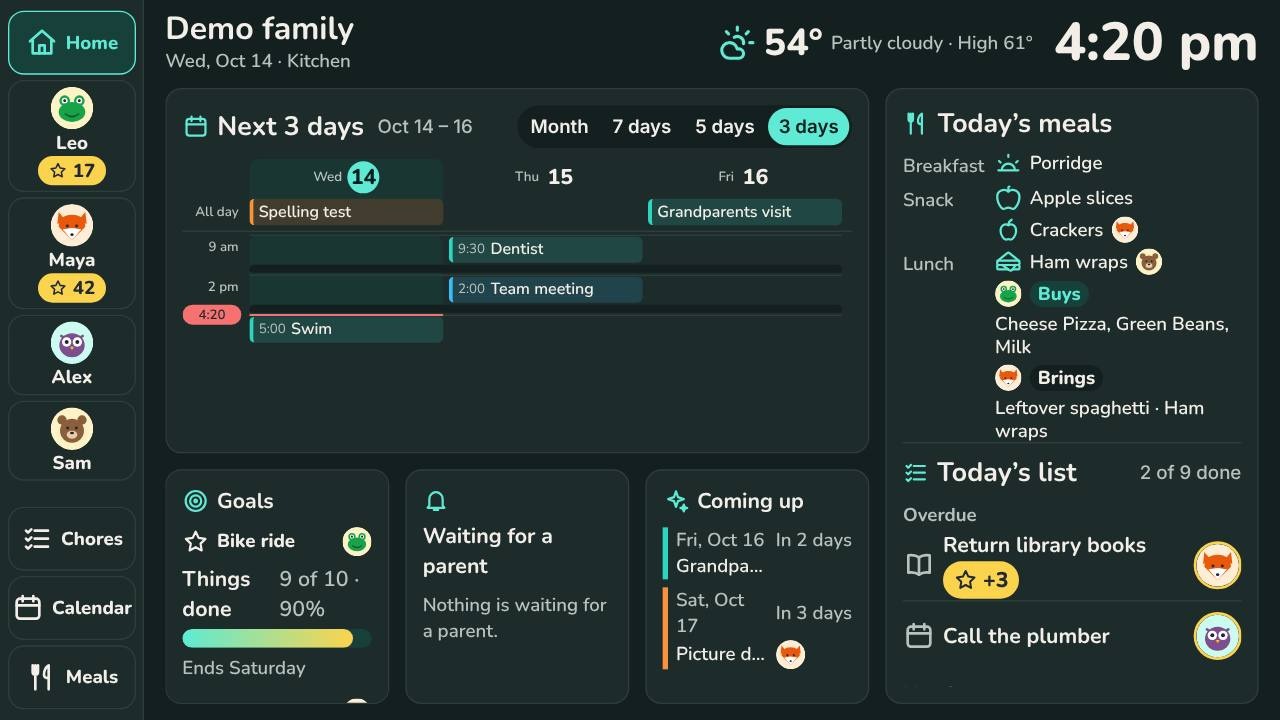
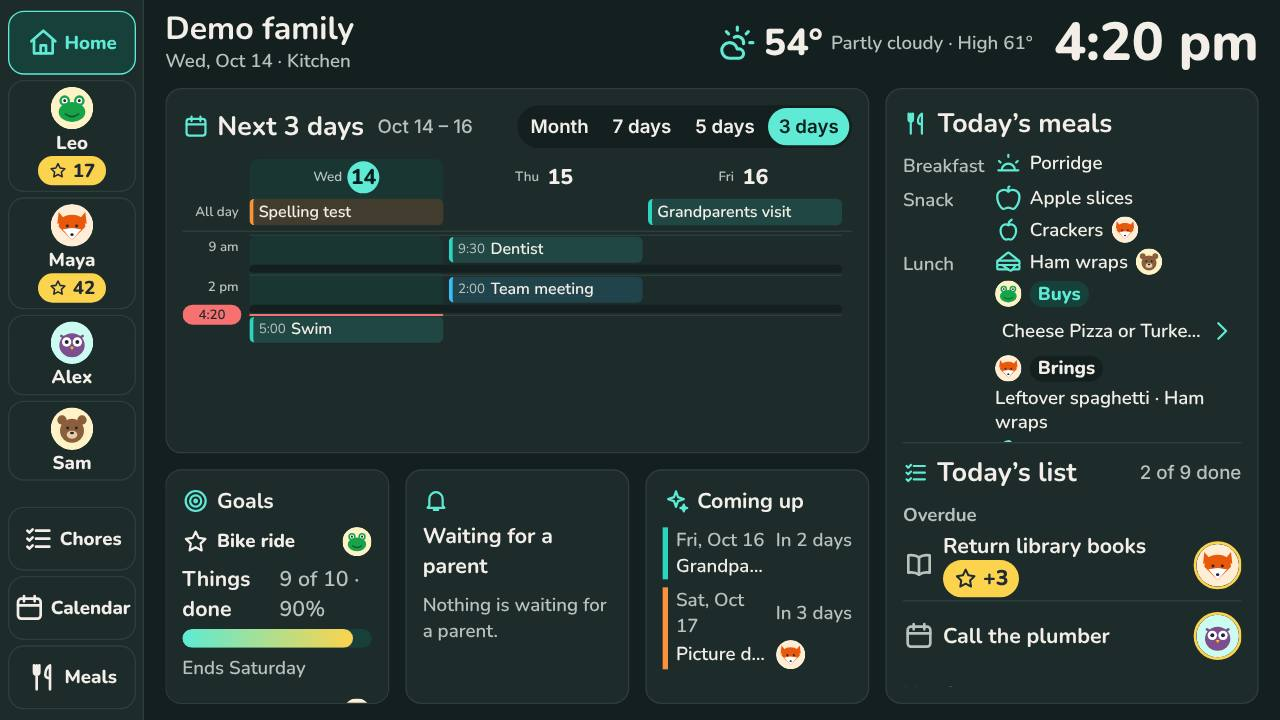
WP-71: The board home on an iPad: badges over chores, the rail clipped (D-100) (#82)
A chore's row grows with its title and points chip (still 104 px), and the rail's Home, Chores, Calendar and Meals keep icon and word inside their buttons (the word under the icon when it doesn't fit). The UI suite's board-fit checks the home screen at 1180x820 and 820x1180 at every text size and the kitchen board's 1920x1080 at Larger and Largest, in Day and Evening (added at the owner's request); all fail on main. WP-78's dialog test no longer races its own reload check.

Merged at the owner's call on d2e307e's green e2e (same app code); e9ebfc4's e2e went red during a test-database slowdown, 10:45-10:53 UTC (PR comment).

Claude-Session: https://claude.ai/code/session_015tRQ5QY7Y7KQWT2gdkLwCb

diff --git a/e2e/ui/board-fit.spec.ts b/e2e/ui/board-fit.spec.ts
@@ -159,3 +159,95 @@ test.describe('a swipe on a 4K panel at device scale 1', () => {
     await expect(title).not.toHaveText(first!);
   });
 });
+
+// [BRD-08][NFR-16] The home screen on an iPad and on a 1080p board at large text (WP-71): in its
+// stacked layout on the owner's iPad, chores' points chips sat over the next chore's title and the
+// rail cut "Calendar" and its icon. Rows were a fixed 104 px with 4 px to spare, and the rail's
+// "Calendar" was 7 px wider than its button; a browser that drew either a little larger spilled
+// or clipped it. Measured in the board's own px, in Day and Evening, at each text size.
+const HOME_SHAPES: readonly (readonly [number, number, string, readonly string[]])[] = [
+  [1180, 820, 'an iPad in landscape', TEXT_SIZES.map((t) => t.value)],
+  [820, 1180, 'an iPad in portrait', TEXT_SIZES.map((t) => t.value)],
+  // Added at the owner's request: the kitchen board (24", 1920×1080) at Larger and Largest, stacked.
+  [1920, 1080, 'a 1080p board, stacked', ['larger', 'largest']],
+];
+
+for (const [width, height, screen, sizes] of HOME_SHAPES) {
+  test.describe(`the home screen on ${screen}`, () => {
+    test.use({ viewport: { width, height } });
+    for (const size of sizes)
+      for (const theme of ['day', 'evening'] as const) {
+        test(`[BRD-08][BRD-09][NFR-16] ${width}×${height} at ${size}, ${theme}: nothing over the next chore, nothing cut in the rail, no sideways scroll`, async ({
+          page,
+        }) => {
+          await page.goto(`/dev/board?text=${size}&theme=${theme}`);
+          await expect(page.locator('html')).toHaveAttribute('data-text-size', size);
+          await expect(page.locator('.fw-dash__row').first()).toBeVisible();
+          await page.evaluate(() => document.fonts.ready);
+          const m = await page.evaluate(() => {
+            const z = Number(
+              getComputedStyle(document.documentElement).getPropertyValue('--fw-zoom'),
+            );
+            const box = (e: Element) => e.getBoundingClientRect();
+            const px = (n: number) => Math.round((n / z) * 10) / 10;
+            // Each chore's chip: how far above its row's bottom edge, and above the next title.
+            const rows = [...document.querySelectorAll('.fw-dash__row')].flatMap((row) => {
+              const chip = row.querySelector('.fw-points');
+              if (!chip) return [];
+              const next = row.nextElementSibling?.querySelector('.fw-dash__title');
+              return [
+                {
+                  title: row.querySelector('.fw-dash__title')!.textContent!,
+                  toRowEnd: px(box(row).bottom - box(chip).bottom),
+                  toNextTitle: next ? px(box(next).top - box(chip).bottom) : null,
+                },
+              ];
+            });
+            // Each rail entry: its icon and words inside the button's padding, and the button
+            // inside the rail (which clips both sides).
+            const rail = box(document.querySelector('.fw-today__people')!);
+            const entries = [...document.querySelectorAll('.fw-today__people button')].map((b) => {
+              const cs = getComputedStyle(b);
+              const inset =
+                (Number.parseFloat(cs.paddingLeft) + Number.parseFloat(cs.borderLeftWidth)) * z;
+              const outer = box(b);
+              const kids = [...b.children]
+                .filter((k) => !k.classList.contains('fw-visually-hidden'))
+                .map(box);
+              return {
+                name: b.textContent!.trim(),
+                left: px(Math.min(...kids.map((k) => k.left)) - (outer.left + inset)),
+                right: px(outer.right - inset - Math.max(...kids.map((k) => k.right))),
+                inRail: outer.left >= rail.left - 0.5 && outer.right <= rail.right + 0.5,
+              };
+            });
+            const screenBox = box(document.querySelector('.fw-today__screen')!);
+            return {
+              rows,
+              entries,
+              railBesideScreen: rail.right <= screenBox.left + 0.5,
+              scrollWidth: document.documentElement.scrollWidth,
+            };
+          });
+          expect(m.scrollWidth, 'no sideways scroll').toBe(width);
+          expect(m.railBesideScreen, 'the rail beside the screen, not over it').toBe(true);
+          expect(m.rows.length).toBeGreaterThan(0);
+          for (const r of m.rows) {
+            // The row's own room below the chip (4 px), so it never reaches the next row.
+            expect
+              .soft(r.toRowEnd, `${r.title}: chip to its row's edge`)
+              .toBeGreaterThanOrEqual(3.5);
+            if (r.toNextTitle !== null)
+              expect
+                .soft(r.toNextTitle, `${r.title}: chip to the next title`)
+                .toBeGreaterThanOrEqual(8);
+          }
+          for (const e of m.entries) {
+            expect.soft(e.left, `${e.name}: room left of its icon`).toBeGreaterThanOrEqual(-0.5);
+            expect.soft(e.right, `${e.name}: room right of its words`).toBeGreaterThanOrEqual(-0.5);
+            expect.soft(e.inRail, `${e.name}: inside the rail`).toBe(true);
+          }
+        });
+      }
+  });
+}

diff --git a/packages/ui/src/ui.css b/packages/ui/src/ui.css
@@ -1430,10 +1430,16 @@ html:has(.board) {
   text-align: center;
   cursor: pointer;
 }
-/* Home, Chores and the Calendar: the icon beside the word, so the people get the height. */
+/* Home, Chores and the Calendar: the icon beside the word, so the people get the height. A word
+   that doesn't fit beside its icon goes under it, never past the button's edge (WP-71). */
 .fw-today__person--all {
   flex-direction: row;
-  gap: var(--s-3);
+  flex-wrap: wrap;
+  gap: var(--s-1) var(--s-2);
+  padding-inline: var(--s-1);
+}
+.fw-today__person--all > span {
+  max-width: 100%;
 }
 .fw-today__people svg {
   width: 48px;
@@ -4141,11 +4147,15 @@ span.fw-heat__cell {
   padding: 0;
   list-style: none;
 }
+/* [BRD-08] A row grows with what is in it (WP-71): its title and points chip (96 px) and a little room
+   above and below make 104 px, as before, and a chip a browser draws taller makes the row taller
+   instead of reaching the next row's title. */
 .fw-dash__row {
   display: flex;
   align-items: center;
   gap: var(--s-3);
-  height: 104px;
+  min-height: 96px;
+  padding-block: var(--s-1);
   border-top: var(--border-w) solid var(--line);
 }
 .fw-dash__row:first-child {
@@ -4159,7 +4169,6 @@ span.fw-heat__cell {
   display: grid;
   flex: 1;
   justify-items: start;
-  gap: var(--s-1);
   min-width: 0;
 }
 .fw-dash__title {

diff --git a/e2e/ui/board-update.spec.ts b/e2e/ui/board-update.spec.ts
@@ -34,8 +34,12 @@ test('[DEV-05] WP-78: an idle board reloads once a new version is deployed', asy
 
 test('[DEV-05] WP-78: never with a dialog open, however long it is left', async ({ page }) => {
   await open(page, 'b'.repeat(40));
-  // A new version is seen at 5 minutes; Leo then opens a day's choices.
-  await page.clock.runFor(5 * 60_000 + 1_000);
+  // A new version is seen at 5 minutes; Leo then opens a day's choices. Leo is at the board from
+  // 4 minutes, so it isn't idle when the version is seen: idle since the start, it would reload at
+  // 5:00 whenever /api/health answers before that minute's own reload check (WP-71: CI saw it).
+  await page.clock.runFor(4 * 60_000);
+  await page.keyboard.press('Shift');
+  await page.clock.runFor(60_000 + 1_000);
   expect(await marked(page)).toBe(true);
   await page.getByRole('button', { name: 'Open Pick next week’s lunches for Leo' }).click();
   await page.getByRole('button', { name: 'Next week' }).click();

diff --git a/docs/06-brand-and-style-guide.md b/docs/06-brand-and-style-guide.md
@@ -1,6 +1,7 @@
 # 06 — FamilyWise Brand and Style Guide
 
 > Version 1.18 · Status: built (WP-37, WP-06, WP-11, WP-13, WP-17, WP-19, WP-30, WP-40, WP-20, WP-22, WP-23, WP-35, WP-45, WP-46, WP-47, WP-48, WP-28, WP-51, WP-52)
+> v1.22: a chore's row grows with its title and points chip; the rail's word goes under its icon when it doesn't fit beside it (§7.2, WP-71, D-100).
 > v1.21: the board's calendar as a time grid: all-day lanes, the hours, now, an event's details, and the calendar's own text sizes (§3, §7.2, WP-52, D-82).
 > v1.20: the admin app's one menu and Settings (§7.3, WP-51, D-81).
 > v1.19: meals on the board: today's meals above Today's list, the Meals screen's week, Meals in the rail (§7.2, WP-28, D-80).
@@ -232,7 +233,7 @@ Admin views use plain words for the same statuses: Open, Done, Needs review, App
 - **Goal celebration (WP-20):** full screen over a dimmed board: the goal's photo or icon at 160 px in Sun, "Leo reached Bike ride!" at title size, "Well done! A grown-up will sort out the reward.", and a primary "Yay!" (`sparkles`, 96 px tall) that has the focus. Sun and Teal sparks fly out from the middle and the card pops (transform and opacity only, 1.6 s); with reduced motion there are no sparks and no pop. It closes on "Yay!" or after 10 seconds, and comes once per achievement.
 - **Calendar (WP-23):** "Calendar" with `calendar` (64 px) after the people. A pill of three views, each icon and word (`view-day` Day, `view-week` Week, `view-month` Month, 96 px tall, the chosen one in Teal tint); round 96 px arrows (`chevron-left`, `chevron-right`) around the title at title size ("Tuesday, October 20", "Oct 18 – 24", "October 2026"), and "Today" (dashed while showing today). Each event on a surface card with a 10 px bar in its calendar's color (14 px in Day), the time in soft text at 28 px ("5:00 pm", "All day", "Until 1:00 am") then the title, and the avatar of whose calendar it is. Week: seven columns, today's in Teal tint with a Teal border. Month: whole weeks; each day a button with its number, three titles with a color bar, then "+N more" in soft text; days of other months dashed. A calendar behind: a Sun-tint pill with `hourglass`, "School hasn’t updated since Sat, Oct 10 at 12:34 pm. Showing its last good events." Offline beyond the board's dates: `wifi-off`, "Showing what this board has for these dates." A person's side column lists today's events under "Today".
 - **Family dashboard (WP-35, D-66):** the home screen. The bar (household, date, clock, health lines) and the top bar (Home with `home`; each person's avatar, name and points chip; Chores with `list-check`; Calendar) stay pinned while the rest scrolls. Below, panels on Surface with a line border and 24 px radius, each headed at heading size with a Teal icon and a soft note on the right. **Calendar** (left, everything but 680 px): 3, 5 or 7 day columns, today Teal-tinted, each day's head a 56 px button ("Tue 13", "Today"), events as in the Week view (at 7 days, titles at small size with tighter padding, about 140 px a day; a word longer than its day breaks inside its event, never past it); or the **month**: a 7-column grid of 104 px day buttons, the date at body size, a row of 18 px dots in each calendar's color (four at most), today Teal-outlined, days outside the month soft. **Today's list** (right, 680 px): parts of the day as in §7.1's columns; a row per item 104 px tall: its icon (48), the title on one line (Nunito 700, body size, cut with an ellipsis), the points chip under it, then a face per person: their 56 px avatar in a 72 px button with a 4 px ring (Sun: past its time or overdue; Teal with a `check` badge: done; dashed Sun with `hourglass`: waiting for a parent; dashed line: done by someone else, or skipped); "Anyone" is a dashed `family` circle. A row whose items are all done reads its title soft and struck through. **Cards** under the calendar, two to a row: Goals (each goal compact, with whose it is), Waiting for a parent (faces, what, a points chip), Coming up (a 8 px stripe in the calendar's color, the date, the title, whose, "In 4 days"). **Tiles are one height** in any list (168 px on a person's screen, 212 px in Chores; the title two lines at most). **More info** is a 56 px round button with `info` on a row or tile; it opens a dialog with the icon and title, the description at body size, When, Points and Who (each face and how it stands), and Close.
-- **One screen, with a rail (WP-48, D-74):** the rail is 216 px of Surface down the left with a line on its right: Home (`home`), each person (their 56 px avatar, name at small size, points chip under it), and at its foot Chores and Calendar (icon beside the word); each a 96 px button with a 24 px radius, the one showing Teal-tinted. The bar is one row: the household (Nunito 800, 48 px) over the date and the board's name in Text-soft, then the weather, the clock (80 px) and Live. The home screen fills the rest: the calendar and today's list (560 px) full height, the cards in one row under the calendar, 300 px tall; anything longer scrolls inside its card. The calendar card's view switch is a pill of four 56 px buttons (Month, 7 days, 5 days, 3 days) at small size, the one showing filled Teal. A goal, a request or an event on a card is one button over the whole row (a focus ring on its edge). Text stays at 28 px or more.
+- **One screen, with a rail (WP-48, D-74):** the rail is 216 px of Surface down the left with a line on its right: Home (`home`), each person (their 56 px avatar, name at small size, points chip under it), and at its foot Chores and Calendar (icon beside the word, 8 px apart, inside 4 px at the sides; the word under the icon when it doesn't fit beside it, never cut); each a 96 px button with a 24 px radius, the one showing Teal-tinted. The bar is one row: the household (Nunito 800, 48 px) over the date and the board's name in Text-soft, then the weather, the clock (80 px) and Live. The home screen fills the rest: the calendar and today's list (560 px) full height, the cards in one row under the calendar, 300 px tall; anything longer scrolls inside its card. The calendar card's view switch is a pill of four 56 px buttons (Month, 7 days, 5 days, 3 days) at small size, the one showing filled Teal. A goal, a request or an event on a card is one button over the whole row (a focus ring on its edge). Text stays at 28 px or more.
 - **The calendar as a time grid (WP-52, D-82):** all-day events in lanes across the top of the days, under a 2 px line: each a 40 px bar with a 6 px edge in its calendar's color over a 16% tint of it on Surface, the title at 24 px Inter 600 on one line, cut with "…"; an event over several days one bar across them. A day's head is its weekday (20 px, Text-soft) and date (Nunito 800, body size), today's date white in a 48 px Teal circle; "+2" in a Background pill when lanes run out. "All day" and the hours ("9 am", "2 pm") in Text-soft at 20 px, right-aligned beside the days. Timed events as the bars, at least 30 px tall: on the home screen in rows an hour each (42 px at least), the start before the title at 20 px Text-soft ("9:30 Dentist"), a skipped stretch a 12 px Background band; on Week and Day in columns with a line each hour, the title then its time ("9:30 – 10:15") when there's room, two at once side by side with a 2 px Surface gap. Today's column a 55% Teal-tint wash. Now: a 3 px line in `--member-7-line` across today with a 15 px dot at its start, and its time ("4:20") white in a pill of the same color in place of the nearest hour. Earlier today's events: Background with their edge half-tinted, the title in Text-soft. An event's details: the sheet of §7.2's "More info", its title beside a 20 × 56 px swatch of its color, then **When**, **Where**, **Calendar**, **Whose** (an avatar, or `family` and "Everyone") each with its icon (`clock`, `map-pin`, `calendar`, `person`) at body size, and **Close**.
 - **Weather (WP-45, D-69):** beside the clock in the bar: the sky's icon in Teal at 64 px (`sun` by day or `moon` at night when clear; `cloud-sun` or `cloud-moon` when partly cloudy; `cloudy`, `cloud-fog`, `cloud-drizzle`, `rain` for rain and showers, `cloud-snow`, and `cloud-lightning` for storms, the Lucide ones since WP-46), the temperature now in whole degrees at title size (Nunito 800), and three lines in Text-soft at small size: the sky's word ("Partly cloudy", "Snow"), "High 61°", and the licence's credit "Weather by Open-Meteo.com". The three lines (line-height 1.1) are no taller than the clock, so the bar is the same with weather or without (since WP-48 one line, "Partly cloudy · High 61°", at 56 px for the icon; the credit is in Help and on Home); with no reading nothing shows in its place. On Home, **Weather on the boards** has the place search (a search field and **Find**, then **Use this** on each match), the last read in a muted line or a notice when it failed, °F or °C as a picker, and the credit link.
 - **Meals (WP-28, D-80):** **Today's meals** heads Today's list's column with `utensils` at heading size, a line under it: a row a meal of the day, its name in soft small text, then each thing planned with its icon in Teal (the library meal's, else `breakfast`, `snack`, `lunch` or `dinner`) and a face when it is one person's; dinner in Nunito 800 at body size in Teal text. A child's lunch: their face, a pill (**Buys** in Teal tint, **Brings** on the page's ground) and the menu or what they bring; **No menu yet** in soft text. **Meals** in the rail (`utensils`) opens **Meals this week**: a table of 7 day columns after a 150 px column of meal names, each cell a Background tile with a line, today's head in Teal with "Today" and today's cells in Teal tint with a 2 px Teal border; an empty cell "–", a day without school lunch its reason in soft text. All text 28 px or more.

diff --git a/docs/05-backlog.md b/docs/05-backlog.md
@@ -1,6 +1,7 @@
 # 05 — Backlog
 
 > Version 0.8 · Status: build baseline · Maintained by Claude Code
+> v0.8.114: WP-71 done (D-100): the board home on an iPad, fixed at the cause: a chore's row grows with its title and points chip, and a word in the rail goes under its icon when it doesn't fit beside it. The board's fit checks gain the iPad shapes, and, added at the owner's request, the kitchen board's 1920×1080 at Larger and Largest.
 > v0.8.113: WP-78 (a lunch pick taken off by another, a bug) added at the owner's request and done in the same change: on Meals in the admin app, every "Choice of" section's radios were one group, so ticking a milk took off the entree. Two more added to it at the owner's request and done with it: "and" in a school menu joins a side like "with" (a WP-64 gap); the board picks up a new deploy by itself (D-99).
 > v0.8.112: WP-71 to WP-76 added at the owner's request, recorded only (D-97, D-98), and WP-77 (WP-49's lunch test, root cause) added and done in the same change: the board home on an iPad (a bug); board layouts that adapt to the screen's shape, which WP-58 and WP-68 now build on, so WP-58 waits on it; the lunch picks one tap from Home; the lunch week as a list of days; the meal planner's days folded; Edit on a planned meal (a bug). WP-73 to WP-76 wait on one mockup. "Next, in order" is the owner's to set.
 > v0.8.111: WP-70 (the board calendar's refresh timing, root cause) added at the owner's request and done in the same change (D-96): the test's own 3 s check looked last at about 2.8 s, fixed in the test; a board read after a change that failed or hung was never made again, fixed in the app; the calendar now says when it has finished drawing, and the month's test waits for it. WP-65's tally restarts with it.
@@ -228,7 +229,7 @@ Statuses: **Done** (merged to `main`) · **In progress** (branch open) · **Read
 | WP-67 | Stale lines in `00-README` | P3 | S | WP-01 | Done |
 | WP-68 | WP-58's second part: a board in portrait | P3 | L | WP-58, WP-53, WP-47, WP-48, WP-52, WP-72 | Queued (portrait mockup first) |
 | WP-70 | The board calendar's refresh timing, root cause | P3 | S | WP-65, WP-23 | Done |
-| WP-71 | The board home on an iPad: badges over chores, the rail clipped | P3 | S | WP-47, WP-48 | Ready |
+| WP-71 | The board home on an iPad: badges over chores, the rail clipped | P3 | S | WP-47, WP-48 | Done |
 | WP-72 | Board layouts that adapt to the screen's width and shape | P3 | L | WP-71, WP-53, WP-52 | Queued (mockup first) |
 | WP-73 | The lunch picks one tap from the admin app's Home | P3 | S | WP-57, WP-74 | Queued (mockup first, with WP-74 to WP-76) |
 | WP-74 | The lunch week as a list of days | P2 | M | WP-49, WP-64 | Ready (mockup first, with WP-73, WP-75 and WP-76) |
@@ -1028,7 +1029,7 @@ flowchart LR
 **Phase:** P3 · **Size:** M · **Depends on:** WP-51 · **Reqs:** NFR-16
 - The owner sees drop-downs, buttons and fields across the app, mostly in the admin app, spaced badly or overlapping. First an automated sweep: every admin page and board screen, filled with the demo family's data (and with long names and empty states), at 390, 768 and 1280 px wide (the board at its 1920×1080 canvas) in both themes, checking that no two controls overlap, nothing is clipped or scrolls sideways, and controls in a row share a baseline and a height. Then every finding is fixed at its cause (shared form and toolbar styles before single pages), with screenshots before and after.
 - The sweep stays in the UI suite, so CI fails a change that brings an overlap back.
-- **iPad shapes** (added at the owner's request with WP-71): the sweep also checks the board at 1180×820 and 820×1180, at Standard, Larger and Largest (the stacked layout), not only at its 1920×1080 canvas.
+- **iPad shapes** (added at the owner's request with WP-71): the sweep also checks the board at 1180×820 and 820×1180, at Standard, Larger and Largest (the stacked layout), and at 1920×1080 at Larger and Largest, not only at its 1920×1080 canvas at Standard.
 - **Done when:** the sweep finds nothing on any page at any of the three widths in either theme, and it runs in CI.
 
 ### WP-54 — Short school days: early dismissal and late start
@@ -1175,7 +1176,14 @@ flowchart LR
 - Added at the owner's request, as a bug. On the owner's iPad ("Matt's iPad"), the board home in its stacked layout (under 1800 board px, so at Larger or Largest text on a tablet): the chore list's points badges (+2, +1, +5) sit over the next chore's title; the rail's words are cut off ("Calenda") and its icons are cut at the left edge.
 - Found while recording this (to confirm in the build): a chore row has a fixed height (`.fw-dash__row`, 104 px) that its title (40 px), gap (4 px) and points chip (56 px, the board's touch floor) fill to within 4 px, and nothing clips it, so on the iPad the row's content spills onto the next one; the rail is a fixed 216 px column whose rows put a 48 px icon beside the word, centered, wider than the 192 px inside it, and its `overflow-y: auto` clips both sides. The fix is at the cause: rows that grow with what is in them, and a rail whose entries fit it (the word wraps or shrinks before anything is cut), not a fix for one screen size.
 - **The board's layout checks gain the iPad shapes** (added at the owner's request): the UI suite's board fit (`e2e/ui/board-fit.spec.ts`) checks the home screen at 1180×820 and 820×1180 at Standard, Larger and Largest (the stacked layout), in Day and Evening: no two parts overlapping, no word or icon clipped in the rail, no sideways scroll. Today they check only laptop, 1080p, 4K, ultrawide and 16:10 screens. WP-53's planned sweep, which checks the board only at its 1920×1080 canvas, gains the same shapes.
+- **The kitchen board at Larger and Largest** (added at the owner's request, 15 October): a photo of the owner's wall board (24" Dell, 1920×1080, Evening, at its own text size) shows a chore's points badge cut off ("+5"). Its home is stacked, so its text size is Larger or Largest (Standard at 1920×1080 is side by side). The fix covers it, and the board-fit checks add 1920×1080 at Larger and Largest, in Day and Evening. "The board at 1920×1080 unchanged" below means the Standard layout, which was already right.
 - **Done when:** the UI suite fails on `main` at 1180×820 at Larger (badges over the next title, the rail clipped) and passes with the fix, at both iPad shapes and every text size, in both themes; the board at 1920×1080 is unchanged; on the preview, the board home at 1180×820 at Larger shows each chore's badge under its own title and the whole word "Calendar" in the rail.
+- As built, the cause, **in the app** (`packages/ui/src/ui.css`), measured in the board's own px on `main` in Chromium and in WebKit (the iPad's engine), the same at every iPad shape, text size and theme, and on the 1080p board at Larger and Largest:
+  - **Chores' rows:** a row was a fixed 104 px and its title (40 px), gap (4 px) and points chip (56 px) left 2 px under the chip and 5.5 px to the next row's title. WebKit already drew the chip a pixel taller; any browser or font that drew it a few px taller put it over the next title, and the next row's title over it ("+5" cut off). Fix: `.fw-dash__row` has a 96 px minimum and 4 px above and below its content, and the title and chip sit together, so a row is still 104 px and grows with what is in it instead of spilling (D-100).
+  - **The rail:** "Calendar" with its 48 px icon and 12 px gap was 179 px, 7 px wider than its button's 172 px inside, so it reached 3.3 to 3.8 px into the padding on each side, centered; the rail clips both sides, so a browser that drew the word a little wider cut its icon at the left and its word at the right ("Calenda"). Fix: Home, Chores, Calendar and Meals have 4 px of padding at the sides and an 8 px gap, so "Calendar" fits with room to spare, and a word that doesn't fit beside its icon goes under it, never past the button's edge (D-100).
+  - At 1920×1080 Standard, nothing moves but those two spaces: the rail's icon 4 px nearer its word and each chip 2 px nearer its title.
+- As built, the tests: the UI suite's `e2e/ui/board-fit.spec.ts` checks the home screen at 1180×820 and 820×1180 at every text size, and at 1920×1080 at Larger and Largest, in Day and Evening (20 tests): each chore's chip at least 3.5 px above its row's edge and 8 px above the next title, each rail entry's icon and word inside its button's padding and inside the rail, the rail beside the screen, no sideways scroll. All 20 fail on `main` (chip 2 px from its row's edge, 5.4 px from the next title; "Calendar" 3.3 px past its padding on each side) and pass with the fix, in Chromium and in WebKit.
+- As built, a test fix outside WP-71's own change: on this pull request's CI, WP-78's UI test "never with a dialog open" (`e2e/ui/board-update.spec.ts`) failed once; the board reloaded before Leo opened a dialog. The cause is in the test: Playwright's clock gives the page one turn after each timer, so at 5:00 `/api/health` can answer between the board's version check and that minute's own reload check, and a board idle since it started rightly reloads at once. The test assumed it couldn't until 5:10. Answering `/api/health` inside the page at once made it fail every time (5 of 5). Fix: Leo touches the board at 4 minutes, so it isn't idle when the new version is seen; it passes with the instant answer (30 of 30) and without it. The app is unchanged.
 
 ### WP-72 — Board layouts that adapt to the screen's width and shape
 **Phase:** P3 · **Size:** L · **Depends on:** WP-71, WP-53, WP-52 · **Reqs:** BRD-11

diff --git a/docs/01-technical-architecture.md b/docs/01-technical-architecture.md
@@ -1,6 +1,7 @@
 # 01 — Technical Architecture
 
 > Version 0.8 · Status: build baseline · Maintained by Claude Code
+> v0.8.63: the board's chore rows and rail entries grow with what is in them, so a browser that draws a chip or a word larger never spills or clips them (WP-71, D-100).
 > v0.8.62: the board reloads itself after a new deploy, once idle with no dialog open (WP-78, D-99); "and" in a school menu joins a side like "with" (WP-78).
 > v0.8.61: the board's reads after a change (WP-70, D-96): one that fails or is still out at 4 s is made again at once, up to three; the board shows when it heard, read and drew a change, for e2e; the calendar is `aria-busy` while a range's first read is out (§7).
 > v0.8.60: next week's lunches picked on the board (WP-49, D-95): the board's Lunches screen reads `lunch_week()` itself for the coming week and changes a day through `POST /api/lunches` (`request_lunch()`), a child's change waiting for a parent on Today; `lunch_request` and `lunch_choice` in Realtime; the approvals alert counts lunch changes (§5.7, §7).
@@ -656,6 +657,8 @@ sequenceDiagram
 **As built (WP-35, D-66, D-67): the home screen.** The board opens on a family dashboard: the calendar (3, 5 or 7 days from today, or the month; ranges beyond the snapshot read as in WP-23), today's list (`lib/dashboard.ts` turns the snapshot's items into a row per item with a face per person, by part of the day), then cards in the layout's order. The layout is in the snapshot (`layout {household, board}`, D-67); `household_settings` and `device` were already in the publication, so a layout saved on Boards reaches the board like any other change, within the 3-second budget (e2e times it). The page scrolls; the bar and the people are `position: sticky`, and the idle timer (90 s) returns to the dashboard at the top. Per-person columns are the Chores screen.
 
 **As built (WP-48, D-74): one screen, with a rail.** `.fw-board` is a grid exactly the screen's height in the board's own px (`100dvh ÷ --fw-zoom`): the rail of people down the left, the bar along the top, and `.fw-today__screen`, which scrolls inside itself; `.fw-today` is `display: contents` so its rail and screen sit in that grid, and the board is positioned so nothing positioned inside spills into a page scroll. The home screen fills the screen: the calendar and today's list stretch, the cards are one row under the calendar, and lists scroll inside their cards; under 1800 board px it stacks and the screen scrolls. The calendar's view on the board is client state in `Today` (`span`), cleared by the idle timer with everything else; the layout's saved view (D-67) is untouched.
+
+**As built (WP-71, D-100): rows and rail entries that grow.** A row of Today's list (`.fw-dash__row`) is at least 96 px with 4 px above and below (104 px, as before) and grows with its title and points chip; Home, Chores, Calendar and Meals in the rail wrap their word under the icon when it doesn't fit beside it, inside 4 px of side padding. The UI suite's `board-fit.spec.ts` measures both in the board's own px at 1180×820, 820×1180 and the stacked 1920×1080.
 
 **As built (WP-52, D-82): the calendar as a time grid.** `lib/board-calendar.ts` lays it out and the board draws it (`calendar-ui.tsx`): `splitDays()` puts all-day events, and timed ones of a day or more, in lanes (`allDayLanes()`, longest first; what finds no lane is "+N" on its days), and cuts each timed event into a piece per day in the household's zone (`hourIn()`). The home screen's 3, 5 or 7 days (`HourRowsGrid`) use `hourRows()`: a CSS grid row for each hour something starts in, a day's events starting in it stacked in one cell that spans down to the row they end in, the heads and lanes fixed above and the hours scrolling under them, opened where now is; a late event's part after midnight shows only on its first day there. The Calendar's Week and Day (`TimeGrid`) draw the hours to scale (`gridHours()`: 8 am to 8 pm at least, stretched to the events and, when today is shown, to now; a part after midnight drawn from the top), events placed by percentage and side by side where they overlap (`sideBySide()`, a short one counted as half an hour tall). Now is a line across today from the board's clock. A tap opens `EventDetails`: when (`eventSpan()`), where (`location`, from `board_calendar()`), the calendar and whose it is. The month and a person's **Today** list (`EventLine`) are unchanged.
 

diff --git a/docs/00-README.md b/docs/00-README.md
@@ -124,6 +124,7 @@ Source of truth for IDs is `04`. CI runs `python3 docs/check_traceability.py --d
 | D-97 | **Board layouts adapt to the screen's width and shape (WP-72, with WP-58 and WP-68).** Added at the owner's request, who expected the board to be responsive. Until now the board lays out one 1920×1080 canvas (D-16) and zooms it to the screen (D-73), stacking the home screen under 1800 board px; on an iPad that leaves a wall-panel layout shrunk to about 0.6, or 0.5 in portrait. The board now picks a layout from its screen's width and shape, in the board's own px after the text size: a wall panel or laptop keeps today's layout; a tablet in landscape and a tablet in portrait each get a layout of their own, at the board's sizes (BRD-03). WP-58's phone and WP-68's portrait boards build on these layouts rather than each solving layout alone, so both now depend on WP-72. Every shape at once is more than one L, so it is split: WP-72 is the layout system and the tablet shapes; the phone stays in WP-58 and the portrait boards in WP-68. The shapes' limits come from WP-72's mockup, approved before it is built. Proposed by Claude Code; the owner confirmed it on 15 October. |
 | D-98 | **The admin app's lunch and meal weeks as lists of days, all collapsed at first, and a quick action to the lunch picks (WP-73 to WP-75).** Added at the owner's request. On Home, a quick action opens the school lunch picks: this week Monday to Friday, the coming week on Saturday and Sunday. The lunch week becomes a stacked list of Monday to Friday, one child at a time, on every screen size: a row of the children's faces and names at the top (none for a single child), opening on the child chosen last, with a dot on a child who still has days without a choice. A day is complete on a Buy day when every "Choice of" section (the entree, the milk) has a pick, and on a Bring day as soon as Bring is set; a day without school is greyed, says **No school** and doesn't open. The meal planner's days fold the same way, showing "X of Y set" (Y the meal types the day shows, X those with a meal) or a checkmark. In both, today stays outlined, open or closed. The child switcher belongs to the lunch list (WP-74), since one child's days are listed at a time; the quick action (WP-73) opens it. One mockup on the demo family covers WP-73 to WP-76 and is approved before any of them is built. Proposed by Claude Code; the owner confirmed it on 15 October. |
 | D-99 | **The board picks up a new deploy by itself (WP-78).** Added at the owner's request. A board left open ran the version it first loaded until it failed to load (the owner's kitchen board still showed the school menu as it was before WP-64). Every 5 minutes the board asks `/api/health` which commit is deployed; when it isn't the one the board runs, the board reloads, but only once no dialog is open and nobody has touched it for 2 minutes, so never in the middle of a tap. A local or dev build never reloads. The board's page comes from the network first (the service worker serves its copy only offline), so a reload gets the new version. Proposed by Claude Code; the owner confirmed it on 15 October. |
+| D-100 | **The board's rows and rail entries grow with what is in them (WP-71).** A bug added at the owner's request: on an iPad, and on the kitchen board at Larger or Largest, chores' points chips sat over the next chore and the rail cut "Calendar". A chore's row is no longer a fixed 104 px: it is at least that, with 4 px above and below its title and chip, and grows if a browser draws them taller. Home, Chores, Calendar and Meals in the rail have 4 px of side padding and an 8 px gap between icon and word, and a word that doesn't fit beside its icon goes under it rather than being cut. Today's sizes are unchanged; the board at 1920×1080 Standard moves only by those two spaces. Proposed by Claude Code; the owner confirmed it on 15 October. |
 
 ## Repo layout
 

diff --git a/docs/04-requirements-traceability.md b/docs/04-requirements-traceability.md
@@ -442,6 +442,7 @@ Work packages (`05-backlog.md`) are assigned to these milestones. A milestone is
 
 | Version | Changes |
 |---|---|
+| 0.8.116 | WP-71 The board home on an iPad: badges over chores, the rail clipped (BRD-08, BRD-09, NFR-16, D-100), a bug added at the owner's request, with the kitchen board's 1920×1080 at Larger and Largest added at the owner's request: in `packages/ui/src/ui.css`, a chore's row (`.fw-dash__row`) grows with its title and points chip (a 96 px minimum, 4 px above and below, still 104 px) instead of a fixed 104 px with 2 px to spare; the rail's Home, Chores, Calendar and Meals keep their icon and word inside the button (4 px side padding, an 8 px gap, the word under the icon when it doesn't fit). Tests: UI suite `board-fit.spec.ts`, the home screen at 1180×820 and 820×1180 at every text size and at 1920×1080 at Larger and Largest, in Day and Evening: chips clear of their row's edge and the next title, the rail's icons and words inside their buttons, no sideways scroll; all fail on `main`. WP-78's UI test "never with a dialog open" no longer races its own reload check at 5:00 (Leo touches the board at 4 minutes; `board-update.spec.ts`). |
 | 0.8.115 | WP-78 a lunch pick taken off by another (MEAL-11, US-707), a bug added at the owner's request and done in the same change: on Meals in the admin app, each section's picks have a name of their own (`pickName()`, read by `parsePicksForm()` in `lib/lunch-picks.ts`, used by `lunch-section.tsx`), so a milk no longer takes off the entree (Vitest `lunch-picks.test.ts`; UI suite and e2e `lunches.spec.ts`, on the board and on Meals). Added to it at the owner's request: "and" in a school menu joins a side like "with" (MENU-06; `withOptions()` and `sidesWords()` in `lib/menu/sections.ts`; Vitest `sections.test.ts`); the board picks up a new deploy by itself, once idle with no dialog open (DEV-05, D-99; `DeployWatch`, `lib/board-update.ts`; Vitest `board-update.test.ts`, UI suite `board-update.spec.ts`). |
 | 0.8.114 | WP-77 WP-49's lunch test, root cause (MEAL-09, MEAL-11, US-707), added at the owner's request and done in the same change: in the test, its own 90 s limit (D-92), each `/api/lunches` POST checked for 200 and timed (`lunchPost()`), and each reload's time kept in the 3 s check on Meals (e2e `lunches.spec.ts`); in the app, the board's lunch week read again after a failed read, up to three (`readWeek()` in `lib/lunch-picks.ts`, used by the board's `lunches-ui.tsx`; Vitest `lunch-picks.test.ts`). |
 | 0.8.113 | Six items added at the owner's request, recorded only (D-97, D-98): WP-71 the board home on an iPad, fixed at the cause (BRD-08, BRD-09, NFR-16; points badges over the next chore, the rail's labels and icons clipped), with iPad shapes and the stacked layout in the board's layout checks; WP-72 board layouts that adapt to the screen's width and shape (BRD-11, US-1010, D-97), L, which WP-58 and WP-68 now build on; WP-73 a quick action on the admin Home to the school lunch picks (MEAL-12, US-709); WP-74 the lunch week as a stacked list of days, all collapsed at first (MEAL-13, US-710); WP-75 the meal planner's days as collapsible sections (MEAL-14, US-711); WP-76 Edit on a planned meal (MEAL-15, US-701). WP-73 to WP-76 are the admin app only and wait on one mockup, on the demo family, approved by the owner. `CLAUDE.md` gains three rules for talking to the owner. |

diff --git a/docs/07-user-guide.md b/docs/07-user-guide.md
@@ -1,6 +1,7 @@
 # 07 — User Guide and Manual
 
 > Version 0.6 · Status: living document · Maintained by Claude Code
+> v0.23: the board on a tablet such as an iPad, and at **Larger** or **Largest**: each chore's points under its own title, and the whole of every word in the rail (A14).
 > v0.22: a menu's "and" joins a side like "with" ("Fish sticks with Fries and Coleslaw"); a parent's lunch picks on **Meals** keep the entree when a milk is ticked; the board picks up a new version by itself when nobody is using it (WP-78, D-99).
 > v0.21: next week's lunches picked at the board (WP-49, D-95): **Lunches** on the board, a child's changes waiting on **Today**, picks on **Meals**, the cut-off on **School**, an item that opens Lunches (A2, A15, B1.2, B1.5, B1.10, B1.15, B2.9, B2.10).
 > v0.20: the school menu by section (WP-64, D-94): a buy day's entree options on the board's home screen, the whole menu at a tap, the menu a row a section on the **Meals** screen, and a line a section on **Meals** and **School menus**; a day typed in with "or" and "with" (A5, A15, B1.15, B2, B7).
@@ -795,13 +796,14 @@ Weather data by [Open-Meteo.com](https://open-meteo.com/) (CC BY 4.0). The credi
 > **Note:** FamilyWise keeps your place to about a kilometre (two decimal places), and only that goes to the weather service. Town names are found through Open-Meteo, and US ZIP codes through Zippopotam.us.
 
 ### A14 Screens and text size
-<!-- covers: US-1007 -->
+<!-- covers: US-1007 US-912 -->
 
 **What this is.** The board fills whatever screen it is on, and you choose how big its words are. **When.** When you set up a board, or when someone finds it hard to read from where they stand. **How.** The fit is automatic; the size is on **Boards**.
 
 - **Any screen.** The board is designed for a 1920 by 1080 screen and grows or shrinks to fit yours. A 4K panel shows exactly the same board twice as large, drawn with all its pixels, so it is sharper, not more crowded. A laptop shows it smaller, and it fits again when you change the window's size. A screen wider or taller than usual gives the board more room.
 - **Text size.** On **Boards**, choose **Smaller text**, **Standard text**, **Larger text** or **Largest text** for a board, and choose **Set text size**. The board changes at once and keeps its size, even after a restart without the internet.
 - **What larger text changes.** Larger words take more room. With **Larger** or **Largest**, today's list moves under the calendar instead of beside it, and the people at the top may take two rows. Scroll down for the rest.
+- **On a tablet.** A board on an iPad or another tablet works the same way, in landscape or portrait: the board fits the screen, and each chore's points stay under its own title at every text size. If a word in the rail is too long to sit beside its icon, it goes under it.
 
 ![The board's home screen at Largest text: the clock, the people over two rows, and the calendar across the whole width; today's list follows further down.](guide/img/board-home-largest.jpg "Largest text, on a 1080p screen")
 
